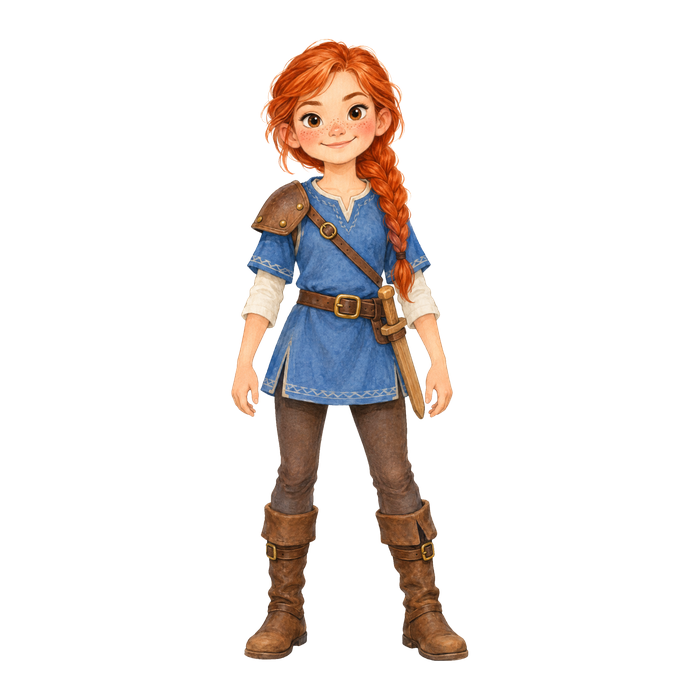
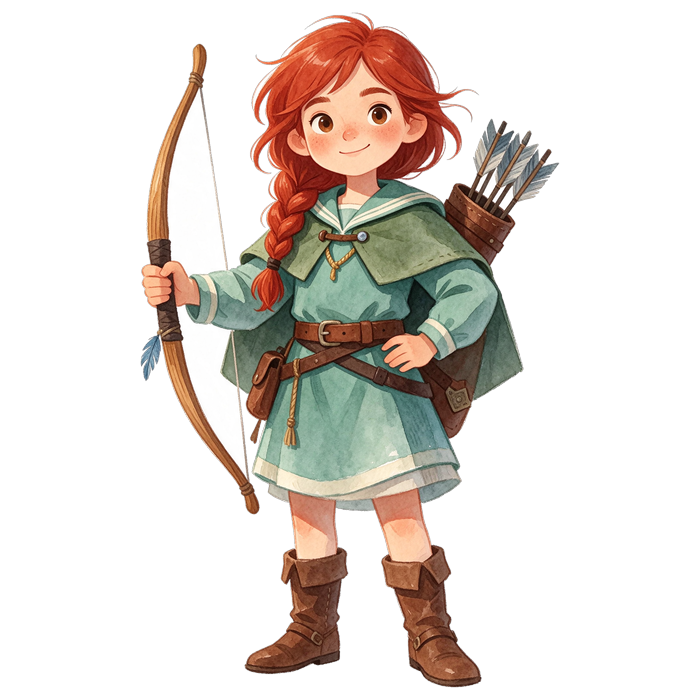
Adiciona as imagens do Navio Fantasma

Changed region(s): [[0.18, 0.0, 0.81, 0.99]]

diff --git a/src/jogos/rpg/navio/historia.ts b/src/jogos/rpg/navio/historia.ts
@@ -76,7 +76,7 @@ export const INIMIGOS_NAVIO: Record<string, InimigoNavio> = {
   },
   gaivota: {
     id: 'gaivota',
-    emoji: '🐦',
+    emoji: '[[inimigos/gaivota-fantasma]]',
     nome: { 'pt-PT': 'A Gaivota Fantasma', 'pt-BR': 'A Gaivota Fantasma' },
     pontosDeVida: 6,
     defesa: 12,
@@ -95,7 +95,7 @@ export const INIMIGOS_NAVIO: Record<string, InimigoNavio> = {
   },
   polvo: {
     id: 'polvo',
-    emoji: '🐙',
+    emoji: '[[inimigos/polvo-gigante]]',
     nome: { 'pt-PT': 'O Polvo Gigante', 'pt-BR': 'O Polvo Gigante' },
     pontosDeVida: 18,
     defesa: 12,
@@ -104,7 +104,7 @@ export const INIMIGOS_NAVIO: Record<string, InimigoNavio> = {
   },
   polvo_ferido: {
     id: 'polvo_ferido',
-    emoji: '🐙',
+    emoji: '[[inimigos/polvo-ferido]]',
     nome: { 'pt-PT': 'O Polvo Ferido', 'pt-BR': 'O Polvo Ferido' },
     pontosDeVida: 12,
     defesa: 12,
@@ -117,8 +117,8 @@ const SEGUIR: TextoPorIdioma = { 'pt-PT': 'Seguir caminho ➜', 'pt-BR': 'Seguir
 
 /** Itens da mochila. As outras marcas (`furtivo`, `sabe-rota`, `amigo`, `vantagem`) são fatos escondidos. */
 const ITENS_HISTORIA: Record<string, ItemHistoria> = {
-  'flecha-fogo': { nome: { 'pt-PT': 'Flecha de fogo', 'pt-BR': 'Flecha de fogo' } },
-  sino: { nome: { 'pt-PT': 'Sino de prata', 'pt-BR': 'Sino de prata' } },
+  'flecha-fogo': { arquivo: 'flecha-fogo', nome: { 'pt-PT': 'Flecha de fogo', 'pt-BR': 'Flecha de fogo' } },
+  sino: { arquivo: 'sino', nome: { 'pt-PT': 'Sino de prata', 'pt-BR': 'Sino de prata' } },
   luz: { arquivo: 'lanterna', nome: { 'pt-PT': 'Lampiões acesos', 'pt-BR': 'Lampiões acesos' } },
   'mapa-nautico': { arquivo: 'mapa', nome: { 'pt-PT': 'Mapa náutico', 'pt-BR': 'Mapa náutico' } },
   perola: { arquivo: 'concha', nome: { 'pt-PT': 'Pérola brilhante', 'pt-BR': 'Pérola brilhante' } },
@@ -436,7 +436,7 @@ const PONTOS: Record<string, Ponto<NomeAtributoArqueiro>> = {
   },
   a09b: {
     id: 'a09b',
-    emoji: '🐦',
+    emoji: '[[inimigos/gaivota-fantasma]]',
     texto: {
       'pt-PT': 'As bandeiras caem e uma gaivota fantasma desce em voo rasante. Ela guarda o ninho!',
       'pt-BR': 'As bandeiras caem e uma gaivota fantasma desce em voo rasante. Ela guarda o ninho!',
@@ -570,7 +570,7 @@ const PONTOS: Record<string, Ponto<NomeAtributoArqueiro>> = {
   // ---------- antro do Polvo ----------
   a15: {
     id: 'a15',
-    emoji: '🐙',
+    emoji: '[[inimigos/polvo-gigante]]',
     texto: {
       'pt-PT': 'No fundo do navio, o Polvo Gigante guarda a Bússola de Ouro entre os tentáculos. Ela brilha como o sol.',
       'pt-BR': 'No fundo do navio, o Polvo Gigante guarda a Bússola de Ouro entre os tentáculos. Ela brilha como o sol.',

diff --git a/src/jogos/rpg/Rpg.tsx b/src/jogos/rpg/Rpg.tsx
@@ -55,7 +55,7 @@ const HISTORIAS: Historia[] = [
   },
   {
     id: 'navio-fantasma',
-    emoji: '🚢',
+    emoji: '[[historias/rpg-navio-fantasma]]',
     titulo: { 'pt-PT': 'O Navio Fantasma', 'pt-BR': 'O Navio Fantasma' },
     descricao: {
       'pt-PT': 'Um navio fantasma levou as lembranças dos pescadores. Sobe a bordo e traz de volta a Bússola de Ouro!',

diff --git a/docs/PROMPTS-IMAGENS.md b/docs/PROMPTS-IMAGENS.md
@@ -34,43 +34,3 @@ O tamanho da imagem define quantas cabem num prompt. Mais objetos por imagem = m
 - O prompt inteiro, em inglês, num bloco de código, começando pelo estilo único e terminando com o formato (ex.: `4:3 landscape.`).
 - Se há substituto temporário em uso (regra do `CLAUDE.md`), uma linha `- **Substituto:** <arquivo ou emoji>`, para saber o que trocar quando a imagem chegar.
 - Ao adicionar a imagem ao projeto: troque o substituto, rode `npm run typecheck`/`npm run build` se mudou código, e **apague a entrada** daqui.
-
-## O Navio Fantasma (RPG)
-
-### rpg-navio-fantasma-arqueiros (4 imagens, um prompt por imagem: arqueiro-masculino-1, arqueiro-masculino-2, arqueiro-feminino-1, arqueiro-feminino-2)
-- **Formato:** 3:4
-- **Substituto:** as imagens dos heróis (`heroi-masculino-1`, `heroi-masculino-2`, `heroi-feminino-1`, `heroi-feminino-2`), copiadas para `public/imagens/rpg/arqueiros/arqueiro-*.png`. Trocar as quatro quando as novas chegarem.
-
-Base (igual nas quatro, mudando só o que está entre colchetes):
-
-```
-Children's picture book illustration, soft watercolor and colored pencil, clean rounded outlines, warm vivid colors, friendly cute look, no text, no letters, no numbers. Full-body young archer standing, front view, holding a short wooden bow in one hand with a leather quiver full of feathered arrows on the back, sailor-style sea-green tunic with a short cape, brown boots, brave and cheerful. [arqueiro-masculino-1: boy with short dark hair, tan skin / arqueiro-masculino-2: boy with curly black hair, dark brown skin / arqueiro-feminino-1: girl with a long red braid, light skin / arqueiro-feminino-2: girl with short black hair and a headband, medium brown skin]. Pure white background (#FFFFFF), no shadow on the ground, for cutout. 3:4 portrait.
-```
-
-### rpg-navio-fantasma-capa
-- **Formato:** 1:1
-- **Substituto:** emoji 🚢 (`HISTORIAS` em `Rpg.tsx`)
-
-```
-Children's picture book illustration, soft watercolor and colored pencil, clean rounded outlines, warm vivid colors, friendly cute look, no text, no letters, no numbers. A friendly ghost sailing ship with torn pale sails, glowing windows and a soft sea mist around it, a tiny golden compass shining on the bow, calm blue night sea, small glowing round icon style, centered with wide margin on a pure white background (#FFFFFF). 1:1 square.
-```
-
-### icones-navio-fantasma-itens (2 ícones na folha 4×4, 14 células vazias)
-- **Formato:** 1:1, 2048×2048
-- **Substituto:** nenhum (os itens aparecem só com o nome na mochila)
-
-```
-Children's picture book illustration, soft watercolor and colored pencil, clean rounded outlines, warm vivid colors, friendly cute look, no text, no letters, no numbers. A 4×4 grid sheet of small icons, each alone in the center of its cell with a wide margin (at least 30% of the cell), thick outline, pure white background (#FFFFFF), no grid lines and no labels. Only the first two cells are filled: 1) a small silver hand bell with a wooden handle; 2) a single arrow with a flaming orange-red tip and feathers. The other 14 cells stay empty white. 1:1 square, 2048×2048.
-```
-
-Nomes dos arquivos, na ordem: `sino`, `flecha-fogo` (em `public/imagens/itens/`; depois ligar em `ITENS_HISTORIA` de `navio/historia.ts`).
-
-### icones-navio-fantasma-inimigos (3 ícones na folha 4×4, 13 células vazias)
-- **Formato:** 1:1, 2048×2048
-- **Substituto:** emoji 🐦 (gaivota) e 🐙 (polvo, polvo ferido) em `INIMIGOS_NAVIO` de `navio/historia.ts`
-
-```
-Children's picture book illustration, soft watercolor and colored pencil, clean rounded outlines, warm vivid colors, friendly cute look, no text, no letters, no numbers. A 4×4 grid sheet of small icons, each alone in the center of its cell with a wide margin (at least 30% of the cell), thick outline, pure white background (#FFFFFF), no grid lines and no labels. Only the first three cells are filled: 1) a pale see-through ghost seagull with glowing eyes; 2) a giant friendly-but-grumpy purple octopus with eight curled tentacles; 3) the same octopus with a bandage on its head. The other 13 cells stay empty white. 1:1 square, 2048×2048.
-```
-
-Nomes dos arquivos, na ordem: `inimigos/gaivota-fantasma`, `inimigos/polvo-gigante`, `inimigos/polvo-ferido` (em `public/imagens/icones/inimigos/`).
